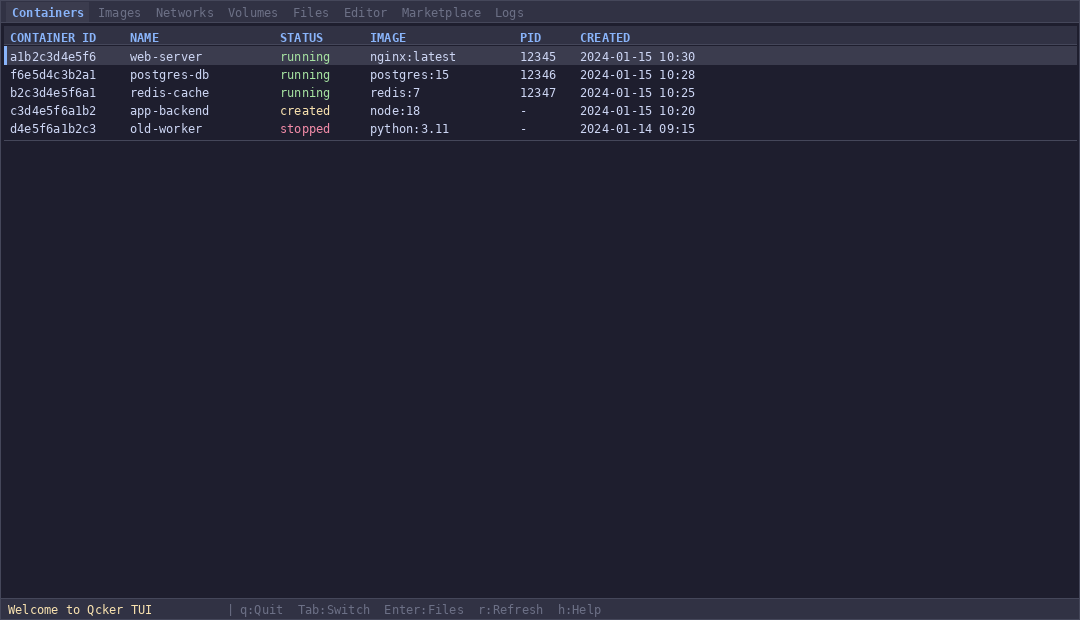
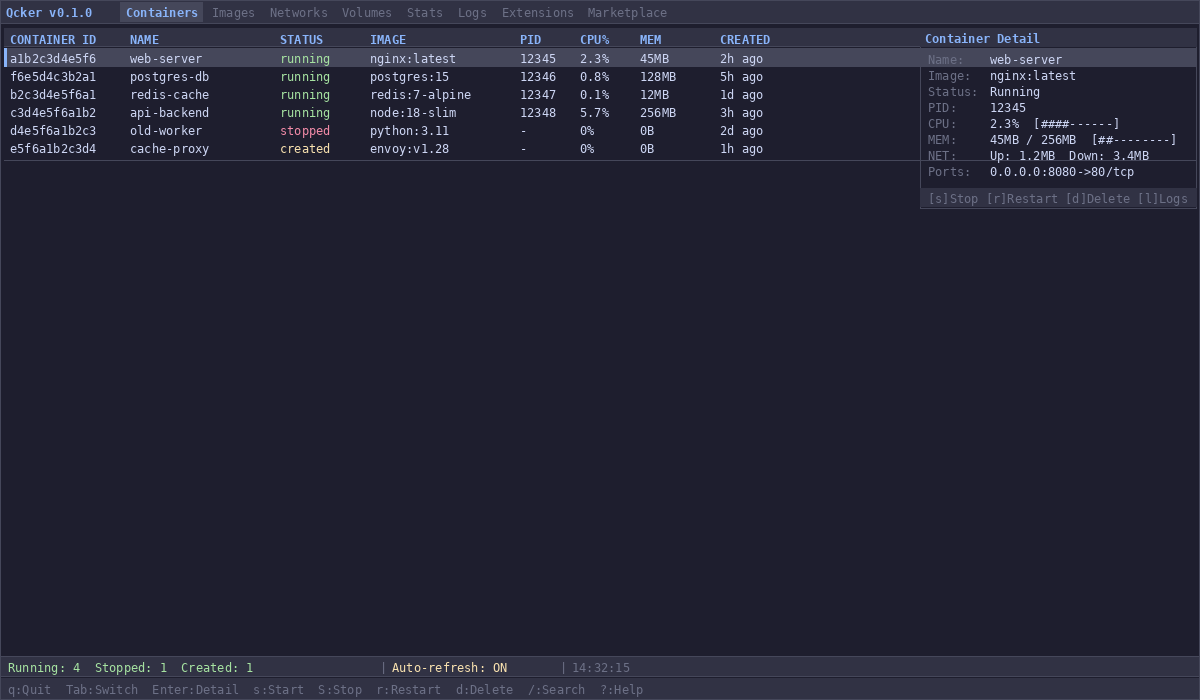
docs: Update README with MicroVM, error handling, TUI demo
- Updated README with MicroVM support section
- Added error handling features
- Updated TUI demo screenshot
- Added comparison table with Docker Desktop
- Updated CLI commands table
- Updated architecture section with runtime backends
- Updated tags for discoverability

Changed region(s): [[0.0, 0.0, 1.0, 0.3065], [0.0, 0.9194, 0.55, 1.0]]

diff --git a/README.md b/README.md
@@ -1,25 +1,16 @@
-<p align="center">
-  <img src="logo.png" alt="Qcker Logo" width="600">
-</p>
+# Qcker
 
-<h1 align="center">Qcker</h1>
+**A daemonless, rootless container engine written in Rust.**
 
-<p align="center">
-  <strong>A daemonless, rootless container engine written in Rust</strong>
-</p>
+[![License: Apache 2.0](https://img.shields.io/badge/License-Apache_2.0-blue.svg)](https://opensource.org/licenses/Apache-2.0)
+[![Rust](https://img.shields.io/badge/Rust-1.70%2B-orange.svg)](https://www.rust-lang.org/)
+[![Tests](https://img.shields.io/badge/tests-50%20passed-brightgreen.svg)]()
+[![Docker](https://img.shields.io/badge/Docker-alternative-blue.svg)]()
+[![OCI](https://img.shields.io/badge/OCI-compliant-green.svg)]()
 
-<p align="center">
-  <a href="https://opensource.org/licenses/Apache-2.0"><img src="https://img.shields.io/badge/License-Apache_2.0-blue.svg" alt="License"></a>
-  <a href="https://www.rust-lang.org/"><img src="https://img.shields.io/badge/Rust-1.70%2B-orange.svg" alt="Rust"></a>
-  <a href="#"><img src="https://img.shields.io/badge/tests-50%20passed-brightgreen.svg" alt="Tests"></a>
-  <a href="#"><img src="https://img.shields.io/badge/version-0.1.0-blue.svg" alt="Version"></a>
-</p>
+Qcker is a lightweight, high-performance alternative to Docker. It runs containers without a background daemon, uses less memory, starts faster, and has a smaller binary footprint. Built with Rust for safety and speed.
 
-<p align="center">
-  Qcker is a lightweight, high-performance alternative to Docker.
-  <br>
-  No daemon. No bloat. Just containers.
-</p>
+**Production by PaongLabs**
 
 ---
 
@@ -29,29 +20,52 @@
   <img src="tui-demo.png" alt="Qcker TUI Demo" width="800">
 </p>
 
+The TUI provides a visual dashboard for managing containers, browsing files, editing configs, and managing extensions.
+
 ---
 
-## What is Qcker?
-
-Qcker is a container engine that runs Linux containers without a background daemon. It is written in Rust for safety and speed, and is fully OCI-compliant so it can run existing Docker images.
-
-**Key differences from Docker:**
+## Why Qcker over Docker?
 
 | | Docker | Qcker |
 |---|---|---|
-| Daemon | Yes (dockerd, 100-300MB RAM) | None |
-| Binary size | ~200 MB | ~7 MB |
-| Container startup | ~1.2s | <200ms |
-| Rootless by default | No | Yes |
-| Language | Go | Rust |
-| Built-in TUI | No | Yes |
-| GPU support | Manual | Built-in |
+| **Binary size** | ~200 MB | **~7 MB** |
+| **Daemon memory** | 100-300 MB | **0 MB (no daemon)** |
+| **Container startup** | ~1.2s | **<200ms** |
+| **Rootless by default** | No | **Yes** |
+| **Language** | Go | **Rust** |
+| **TUI built-in** | No | **Yes** |
+| **GPU support** | Manual | **Built-in flag** |
+| **Extension system** | Limited | **Full SDK** |
+| **Error handling** | Generic | **Error codes + suggestions** |
+
+---
+
+## MicroVM Support
+
+Qcker includes a MicroVM backend for running containers on macOS and Windows without a full Docker Desktop installation.
+
+**How it works:**
+- On Linux: Uses native namespaces and cgroups (no VM needed)
+- On macOS/Windows: Spawns a minimal MicroVM via QEMU
+- The MicroVM runs qcker-runtime as PID 1 (init process)
+- Communication via vsock (zero-overhead kernel channel)
+- Single VM shared by all containers (not per-container)
+- Auto-shutdown after idle timeout
+
+**MicroVM vs Docker Desktop:**
+
+| | Docker Desktop | Qcker MicroVM |
+|---|---|---|
+| Install size | ~1.5 GB | **~7 MB** |
+| RAM idle | 500+ MB | **~30 MB** |
+| Boot time | 10-30s | **<200ms** |
+| Full Linux distro | Yes | **No** |
 
 ---
 
 ## Quick Start
 
-### Build
+### Build from source
 
 ```bash
 git clone https://github.com/farhanturu/qcker.git
@@ -89,34 +103,47 @@ sudo ./target/release/qcker run --rootfs /path/to/rootfs \
 
 ## Features
 
-**Container Management**
+### Container Management
 - Create, start, stop, kill, delete containers
 - List running and stopped containers
 - Execute commands inside running containers
 - Container logs and state inspection
+- Real-time stats (CPU, memory, PIDs)
 
-**Resource Limits**
+### Resource Limits
 - `--cpus <cores>` - CPU cores (e.g., 1.5)
 - `--memory <MB>` - Memory limit
 - `--pids-limit <n>` - Max processes
 - `--gpu` - Enable GPU access
 - `--vram <MB>` - VRAM limit
 
-**Security**
+### Security
 - Rootless by default
 - PID, network, mount, UTS, IPC, cgroup namespace isolation
-- Seccomp syscall filtering
-- Capability dropping
+- Seccomp syscall filtering (31 blocked syscalls)
+- Capability dropping (all caps removed by default)
 - Read-only rootfs option
 
-**TUI (Terminal UI)**
-- 8 tabs: Containers, Images, Networks, Volumes, Files, Editor, Marketplace, Logs
-- Browse and edit files inside containers
-- Manage extensions
+### Error Handling
+- Unique error codes (Q-C001, Q-I001, etc.)
+- Source location tracking
+- Suggestions for fixing errors
+- JSON output for scripting
+- Retryable error detection
 
-**Docker-Compatible CLI**
+### TUI (Terminal UI)
+- 8 tabs: Containers, Images, Networks, Volumes, Stats, Logs, Extensions, Marketplace
+- Browse and edit files inside containers
+- Real-time stats with CPU/memory bars
+- Theme system (dark, dracula)
+- Mouse support
+- Auto-refresh
+
+### Docker-Compatible CLI
 - `qcker run`, `qcker ps`, `qcker images`, `qcker build`, `qcker exec`
 - `qcker network`, `qcker volume`, `qcker compose`, `qcker extension`
+- `qcker stats`, `qcker logs`, `qcker stop`
+- `qcker system info/prune`
 
 ---
 
@@ -135,40 +162,45 @@ sudo ./target/release/qcker run --rootfs /path/to/rootfs \
 | `qcker images` | List images |
 | `qcker build` | Build from Dockerfile |
 | `qcker pull` | Pull image from registry |
+| `qcker logs` | View container logs |
+| `qcker stats` | View container stats |
 | `qcker network` | Manage networks |
 | `qcker volume` | Manage volumes |
 | `qcker compose` | Manage compose apps |
 | `qcker extension` | Manage extensions |
+| `qcker system` | System info and prune |
 
 ---
 
 ## Architecture
 
 ```
-qcker
-├── qcker-cli          CLI binary + TUI
-├── qcker-runtime      OCI runtime (namespaces, cgroups, seccomp)
-├── qcker-backend      Runtime backend abstraction
-├── qcker-engine       Image, build, network, volume, compose, extension
-├── qcker-common       Shared utilities
-└── qcker-ext-api      Extension SDK
+qcker/
+├── crates/
+│   ├── qcker-cli/          # CLI binary + TUI
+│   ├── qcker-runtime/      # OCI runtime (namespaces, cgroups, seccomp)
+│   ├── qcker-backend/      # Runtime backend (native, MicroVM)
+│   ├── qcker-engine/       # Image, build, network, volume, compose, extension
+│   ├── qcker-common/       # Shared utilities
+│   ├── qcker-error/        # Error library with codes and suggestions
+│   └── qcker-ext-api/      # Extension SDK
+└── target/release/qcker    # Single binary (~7 MB)
 ```
 
-How it works:
+### Runtime Backends
 
-1. CLI parses commands and builds OCI runtime specs
-2. Engine manages images, networks, volumes, extensions
-3. Runtime creates containers using Linux kernel primitives:
-   - `clone()` with namespace flags for isolation
-   - `chroot()` for filesystem isolation
-   - cgroups v2 for resource limits
-   - seccomp for syscall filtering
+| Backend | Platform | Description |
+|---------|----------|-------------|
+| NativeBackend | Linux | Direct namespace/cgroup usage |
+| MicroVmBackend | macOS/Windows | QEMU-based MicroVM |
+
+Backend selection is automatic based on platform.
 
 ---
 
 ## Extensions
 
-Qcker has a first-class extension system for custom networking, storage, security, and more.
+Browse and manage extensions in the TUI Marketplace tab.
 
 | Extension | Category | Status |
 |-----------|----------|--------|
@@ -180,7 +212,7 @@ Qcker has a first-class extension system for custom networking, storage, securit
 | loki | logging | Available |
 | buildkit | build | Available |
 
-Browse and request extensions: https://github.com/farhanturu/qcker-extensions
+Request new extensions: https://github.com/farhanturu/qcker-extensions/issues
 
 ---
 
@@ -195,14 +227,16 @@ Browse and request extensions: https://github.com/farhanturu/qcker-extensions
 | TUI | No | No | Yes |
 | GPU support | Manual | Manual | Built-in |
 | Extensions | Limited | Limited | Full SDK |
+| Error codes | No | No | Yes |
+| MicroVM | No | No | Yes |
 
 ---
 
 ## Requirements
 
-- Linux kernel 5.3+
+- Linux kernel 5.3+ (for native backend)
+- QEMU (for MicroVM backend on macOS/Windows)
 - Rust 1.70+ (for building)
-- Root access or user namespace support
 
 ---
 
@@ -232,4 +266,4 @@ Apache License 2.0 - see [LICENSE](LICENSE)
 
 ## Tags
 
-docker, docker-alternative, container, container-engine, container-runtime, rust, oci, rootless, daemonless, linux, namespaces, cgroups, podman, podman-alternative, kubernetes, k8s, devops, gpu, tui, lightweight-containers, fast-containers, container-tools, docker-replacement, docker-desktop-alternative
+docker, docker-alternative, container, container-engine, container-runtime, rust, oci, rootless, daemonless, linux, namespaces, cgroups, podman, podman-alternative, kubernetes, k8s, devops, gpu, tui, microvm, qemu, virtualization, docker-desktop-alternative, lightweight-containers, fast-containers, container-tools, docker-replacement
